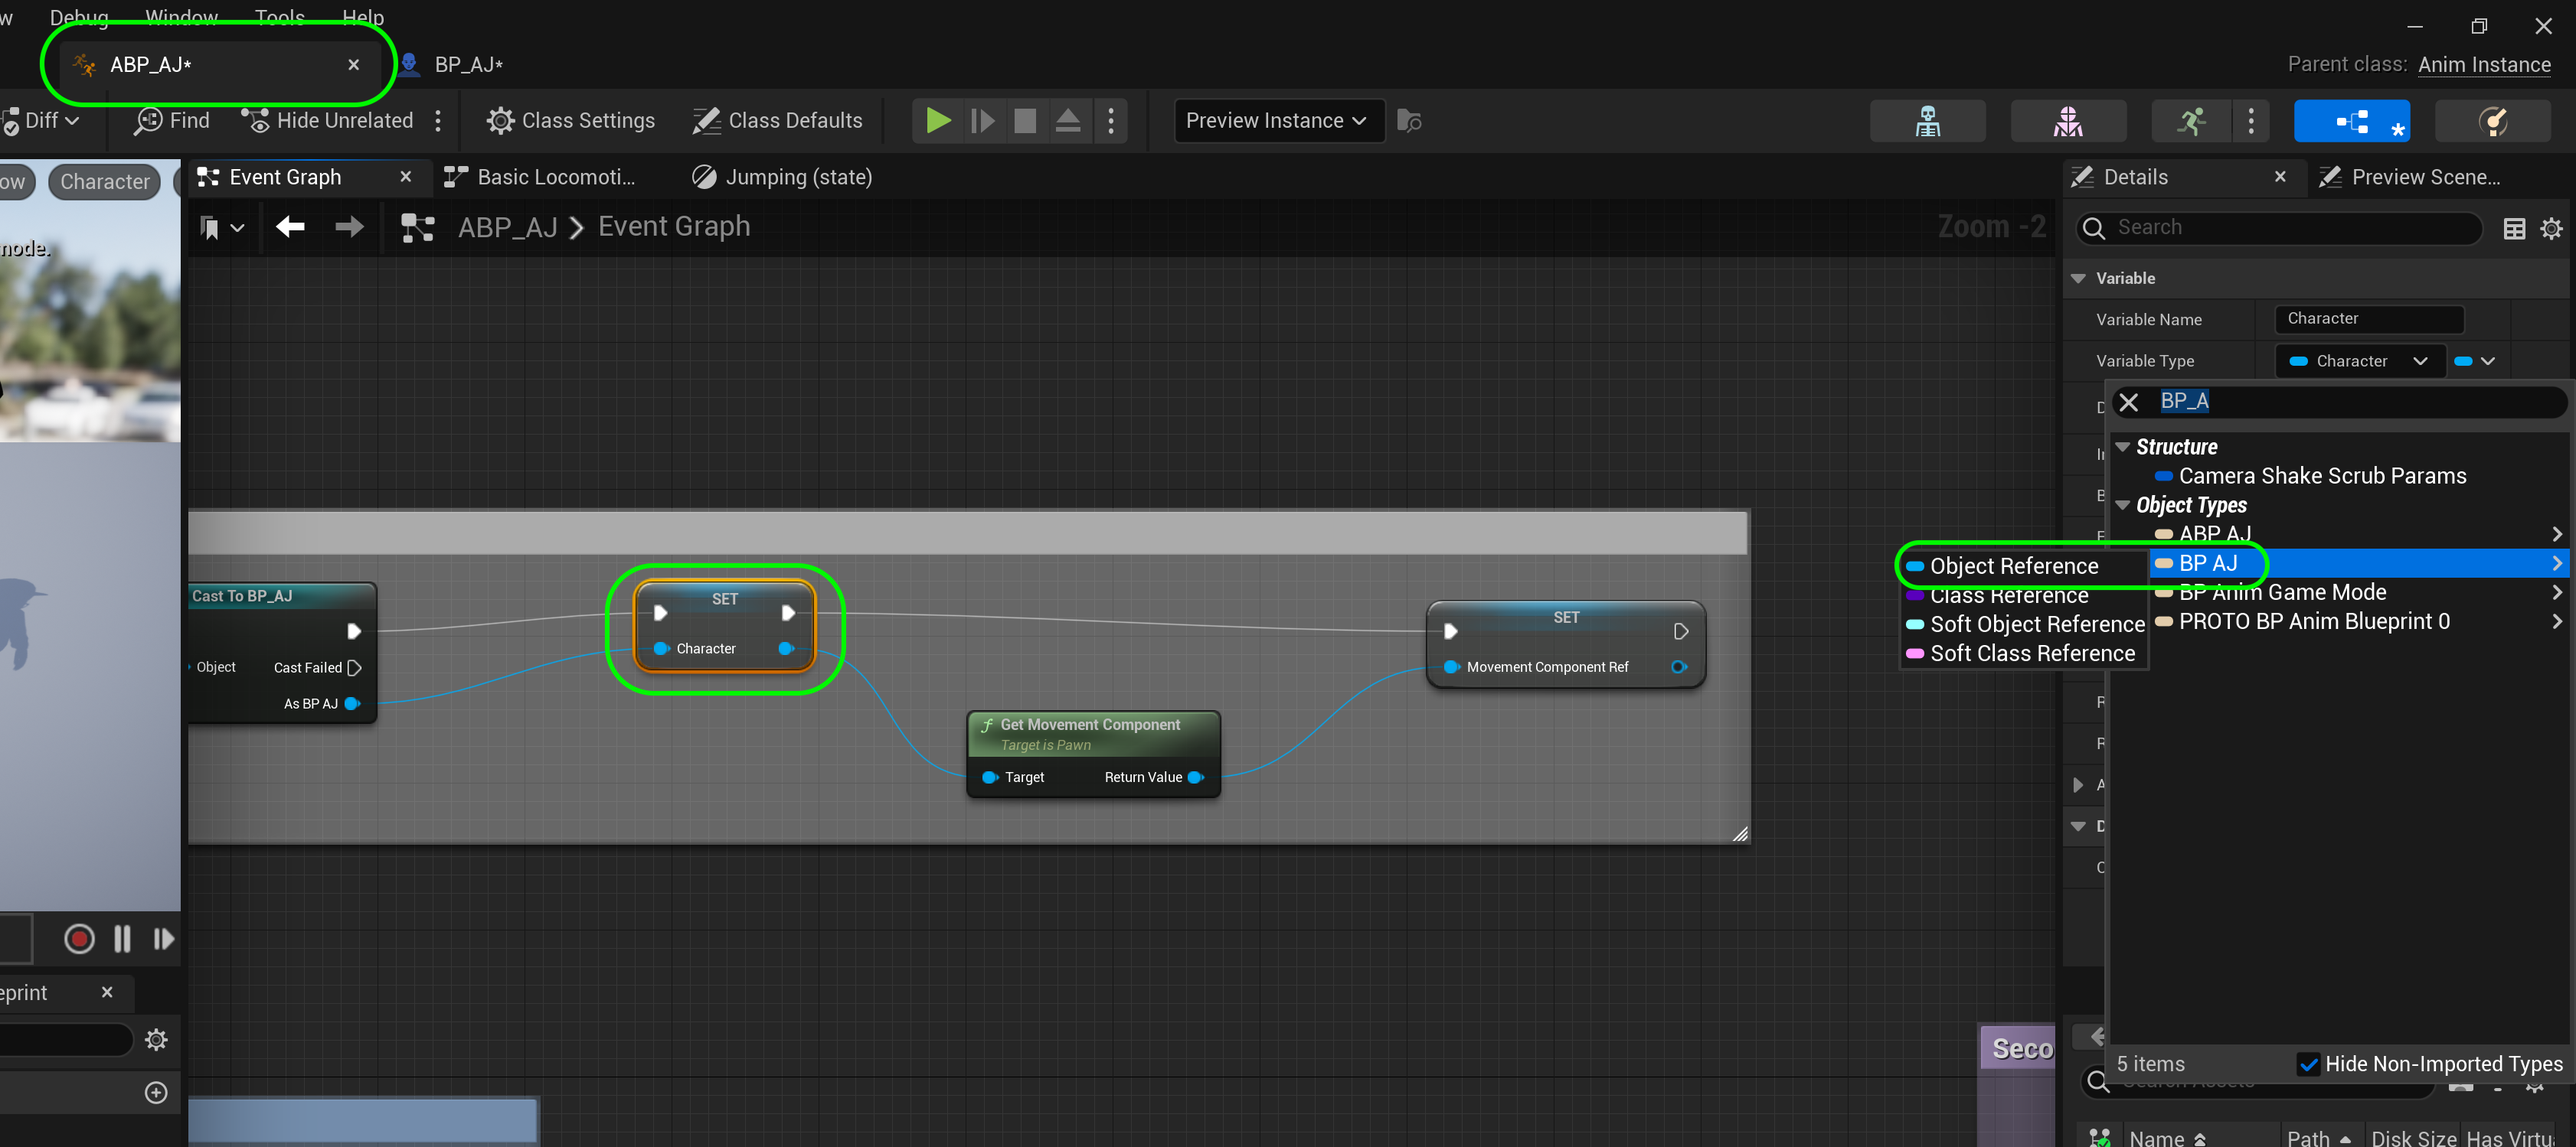
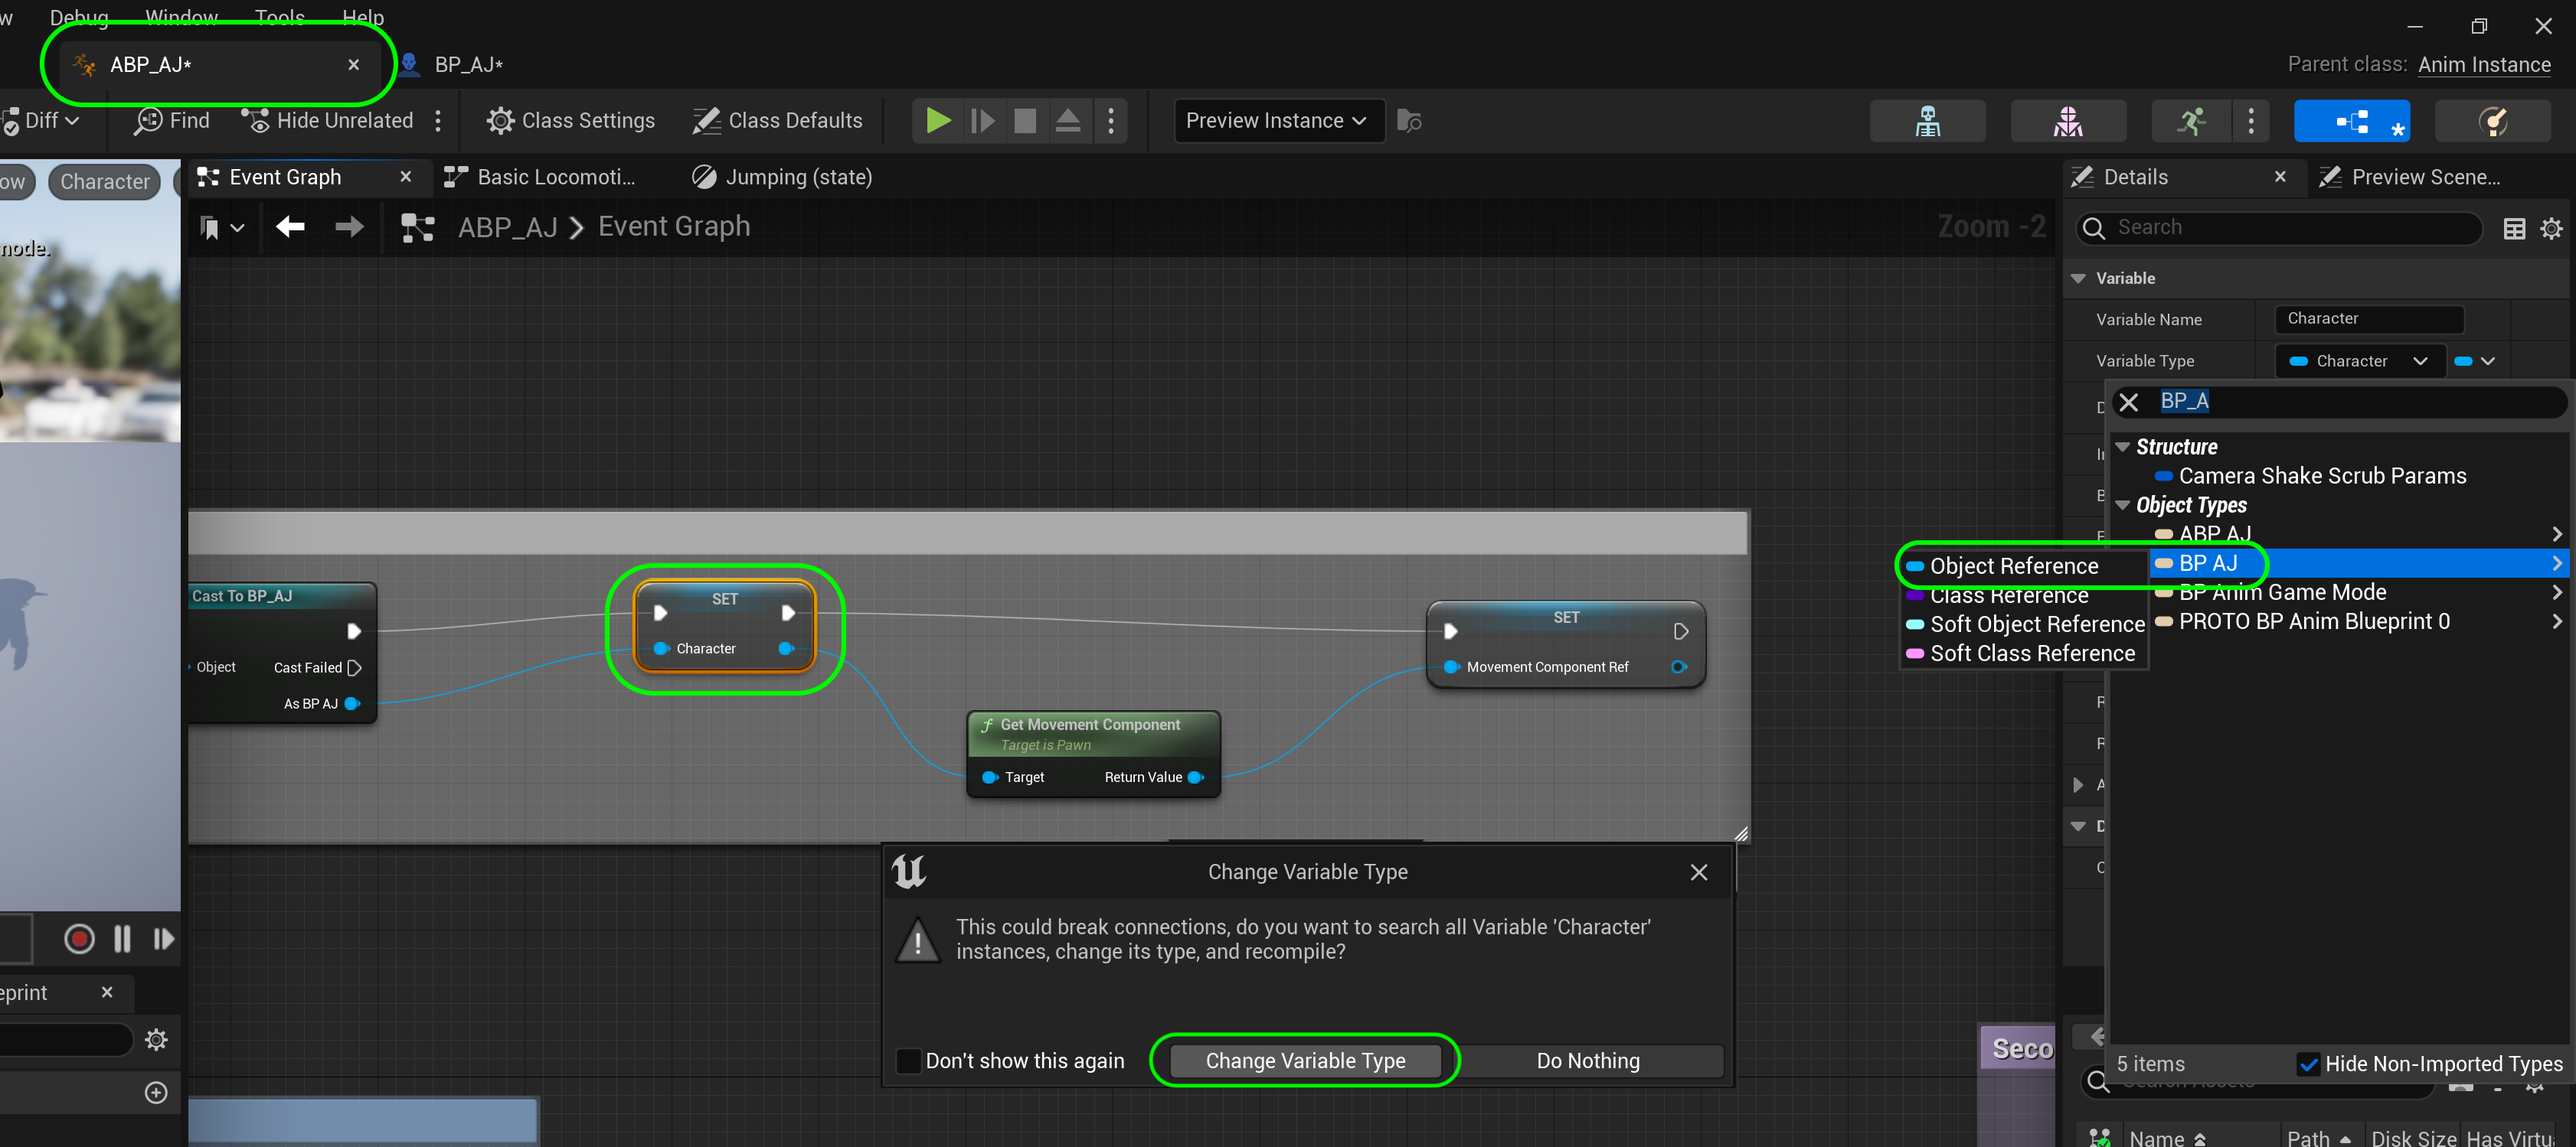
Update to Unreal 5.2

Changed region(s): [[0.3433, 0.7058, 0.6867, 0.8592], [0.3433, 0.8899, 0.5618, 0.9513], [0.593, 0.9206, 0.6555, 0.9513]]

diff --git a/jumping/README.md b/jumping/README.md
@@ -141,31 +141,23 @@ Reconnect execution pins from **Cast To BP_AJ** to **Set BP_AJ** to **Set Moveme
 
 ![add boolean bIsJumping](images/reconnectPins.png) 
 
-![add set is jumping node](images/SetIsJumpingForJump.png)
-
 ![](../images/line2.png)
 
 ##### `Step 17.`\|`ITA`| :large_blue_diamond: :small_orange_diamond: :small_blue_diamond: :small_blue_diamond:
 
-*Set* the execution pin from the **Jump** node to the **Set Is Jumping** node. *Set* **Is Jumping** to `true`.
-
-![set is jumping to true](images/image_02.png)
+Now that we have access to the variables in side of BP_AJ add a **BP_AJ** node to the event graph in the **ABP_AJ**.  Pull off of the pin and select a **Get | ** node.
 
 ![](../images/line2.png)
 
 ##### `Step 18.`\|`ITA`| :large_blue_diamond: :small_orange_diamond: :small_blue_diamond: :small_blue_diamond: :small_blue_diamond:
 
-We need to reset this **boolean** when you are touching the ground. Under the **Jump** nodes *right click* on the graph and add a **Get Movement Component** node. Pull of its pin and look for a **Is Falling** node.
-
-![add get movement component and is falling nodes](images/SetToIsJumpingFalse.png)
-
 ![](../images/line2.png)
 
 ##### `Step 19.`\|`ITA`| :large_blue_diamond: :small_orange_diamond: :small_blue_diamond: :small_blue_diamond: :small_blue_diamond: :small_blue_diamond:
 
-*Pull off* of the **Is Falling** node's pin and select a **Branch** node.
 
-![add branch node](images/BranchFromIsFalling.png)
+
+![add branch node](images/getIsJumping.png)
 
 ![](../images/line2.png)
 
